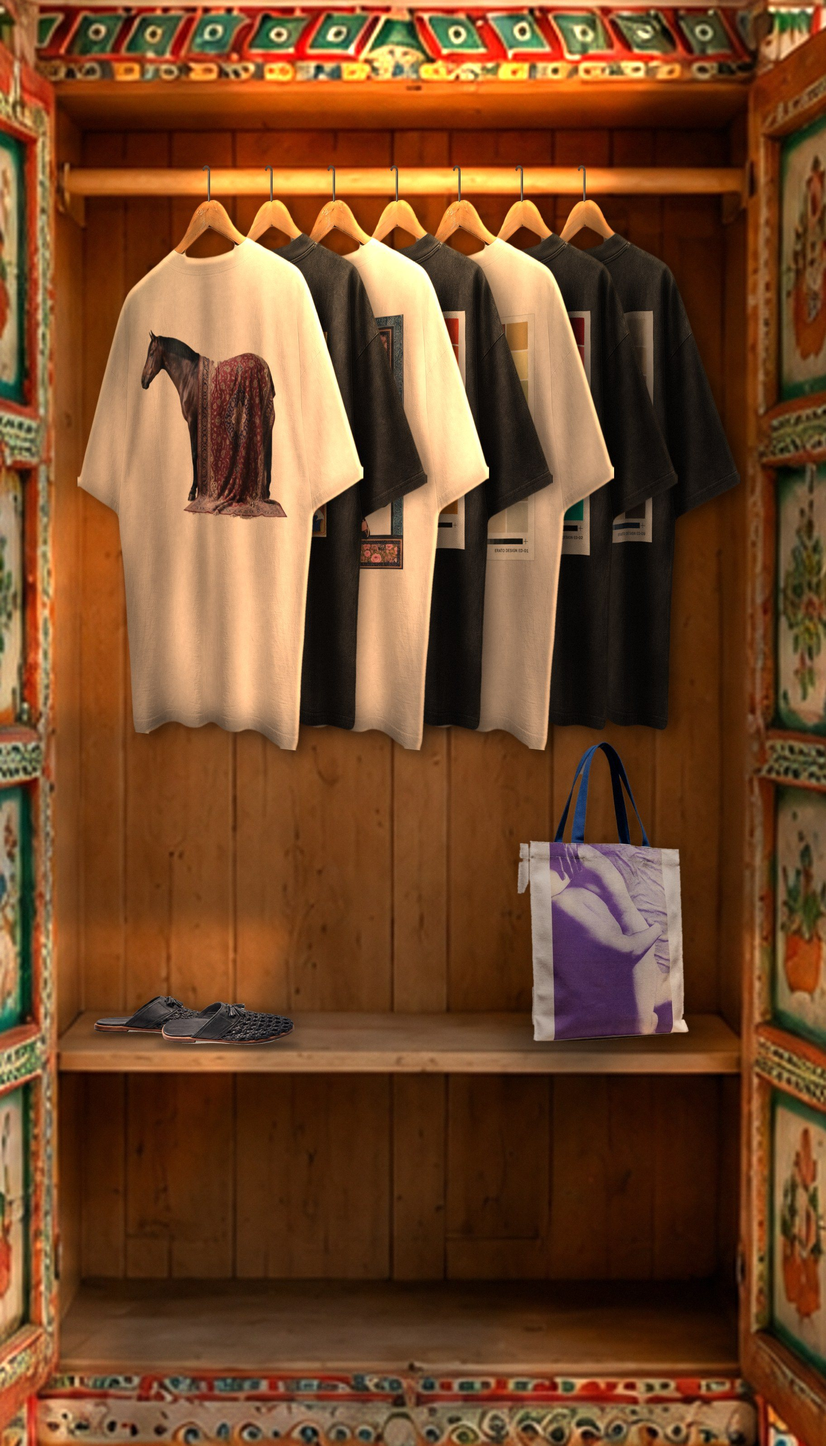
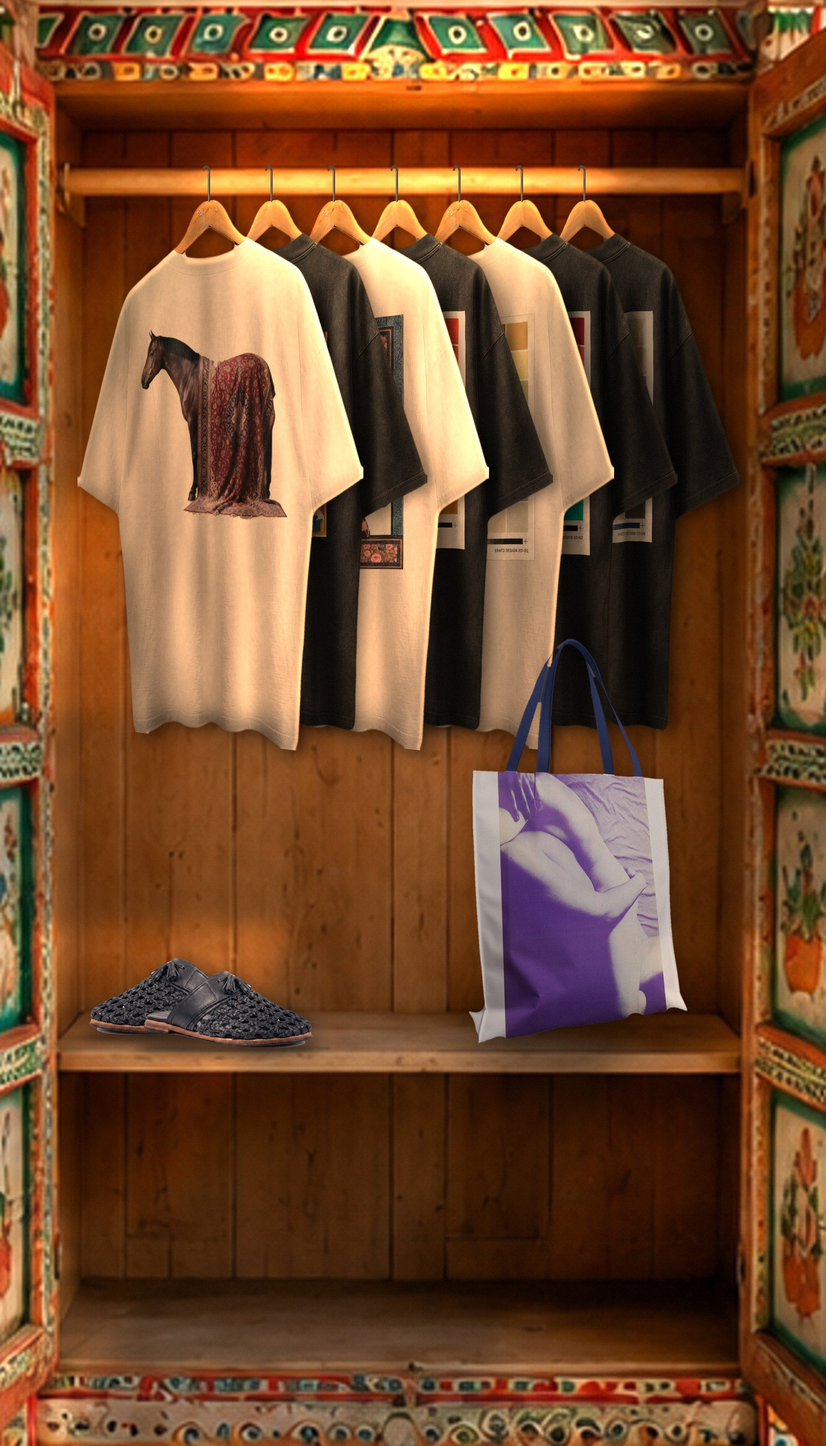
New mule + tote in wardrobe, Loom colour variants (USD 220), tote USD 18 standard size, Riviera framed print
Claude-Session: https://claude.ai/code/session_017Ju3v1Wm9qiCWbJhr3avMd

Changed region(s): [[0.5625, 0.4342, 0.8438, 0.7444], [0.0938, 0.6513, 0.375, 0.7444]]

diff --git a/product-loom.html b/product-loom.html
@@ -4,7 +4,7 @@
 <meta charset="UTF-8">
 <meta name="viewport" content="width=device-width, initial-scale=1.0">
 <title>Loom — ERATO</title>
-<meta name="description" content="Loom — ERATO hand-woven black leather mule.">
+<meta name="description" content="Loom — ERATO hand-woven mule in 100% premium Balinese organic leather, handmade in Bali. Black, dark blue or red brown. USD 220.">
 <link rel="preconnect" href="https://fonts.googleapis.com">
 <link rel="preconnect" href="https://fonts.gstatic.com" crossorigin>
 <link href="https://fonts.googleapis.com/css2?family=Jost:ital,wght@0,300;0,400;0,500;0,600;1,400&display=swap" rel="stylesheet">
@@ -35,21 +35,45 @@
 <a class="back-link" href="accessories.html">&larr; Back to Accessories</a>
 
 <div class="product-detail">
-  <div class="piece-frame"><img src="assets/products/loom-mule.jpg" alt="Loom — ERATO woven leather mule"></div>
+  <div class="gallery">
+    <div class="piece-frame"><img id="mainShot" src="assets/products/loom-black.jpg" alt="Loom — ERATO hand-woven leather mule, black"></div>
+    <div class="thumbs">
+      <button class="thumb active" data-src="assets/products/loom-black.jpg" aria-label="Three-quarter view"><img src="assets/products/loom-black.jpg" alt=""></button>
+      <button class="thumb" data-src="assets/products/loom-black-three.jpg" aria-label="Top, side and inner views"><img src="assets/products/loom-black-three.jpg" alt=""></button>
+    </div>
+  </div>
   <div class="plaque">
     <h1 class="plaque-title">Loom</h1>
-    <p class="plaque-medium">Hand-woven black leather · Leather sole</p>
-    <div class="plaque-sizes"><button class="size-btn">39</button><button class="size-btn">40</button><button class="size-btn active">41</button><button class="size-btn">42</button><button class="size-btn">43</button><button class="size-btn">44</button></div>
-    <p class="plaque-price">USD 89</p>
+    <p class="plaque-medium">100% premium Balinese organic leather · Handmade</p>
+    <p class="plaque-note">A backless mule in hand-knotted leather, finished with a small leather tassel. Made entirely by hand by a local leather artist in Bali.</p>
+    <p class="plaque-label" id="colourLabel">Colour — Black</p>
+    <div class="swatches" data-switch>
+      <button class="swatch-dot active" style="background:#1c1c1e" title="Black" aria-label="Black" data-name="Black" data-k="black"></button>
+      <button class="swatch-dot" style="background:#1f2a44" title="Dark Blue" aria-label="Dark blue" data-name="Dark Blue" data-k="navy"></button>
+      <button class="swatch-dot" style="background:#6b3423" title="Red Brown" aria-label="Red brown" data-name="Red Brown" data-k="redbrown"></button>
+    </div>
+    <p class="plaque-label">Size (EU)</p>
+    <div class="plaque-sizes">
+      <button class="size-btn">38</button><button class="size-btn">39</button><button class="size-btn">40</button><button class="size-btn active">41</button><button class="size-btn">42</button><button class="size-btn">43</button><button class="size-btn">44</button><button class="size-btn">45</button>
+    </div>
+    <p class="plaque-price">USD 220</p>
     <button class="add-to-bag">Add to Bag</button>
+    <dl class="spec-list">
+      <div><dt>Material</dt><dd>100% premium Balinese organic leather, upper, lining and tassel</dd></div>
+      <div><dt>Make</dt><dd>100% handmade by a local leather artist in Bali</dd></div>
+      <div><dt>Upper</dt><dd>Hand-knotted open weave with a smooth leather saddle</dd></div>
+      <div><dt>Sole</dt><dd>Stacked leather sole and low heel</dd></div>
+      <div><dt>Colours</dt><dd>Black, Dark Blue, Red Brown</dd></div>
+      <div><dt>Sizes</dt><dd>EU 38 to 45</dd></div>
+    </dl>
   </div>
 </div>
 
 <div class="product-story">
   <h4>The Story</h4>
-  <p>A backless mule in hand-woven black leather, finished with a small leather tassel. Slips on, sits low, and lives next to the tees in the wardrobe.</p>
-  <h4>The Make</h4>
-  <p>Knotted leather weave upper, soft leather lining, leather sole. Sizes 39 to 44.</p>
+  <p>Loom is woven the slow way: strips of organic leather knotted by hand, one crossing at a time, by a leather artist in Bali. No two pairs are exactly alike, and the leather softens and darkens the more you wear it.</p>
+  <h4>Care</h4>
+  <p>Wipe with a dry cloth, keep away from long soaks, and condition the leather now and then. Natural marks in the hide are part of the piece.</p>
 </div>
 
 <footer class="footer">

diff --git a/product-riviera.html b/product-riviera.html
@@ -3,8 +3,8 @@
 <head>
 <meta charset="UTF-8">
 <meta name="viewport" content="width=device-width, initial-scale=1.0">
-<title>Marble Study — ERATO</title>
-<meta name="description" content="Marble Study — ERATO 100% cotton tote bag, standard 38 × 42 cm. USD 18.">
+<title>Riviera — Framed Print — ERATO</title>
+<meta name="description" content="Riviera — ERATO framed art print in a minimal natural wood frame. A4, A3, A2.">
 <link rel="preconnect" href="https://fonts.googleapis.com">
 <link rel="preconnect" href="https://fonts.gstatic.com" crossorigin>
 <link href="https://fonts.googleapis.com/css2?family=Jost:ital,wght@0,300;0,400;0,500;0,600;1,400&display=swap" rel="stylesheet">
@@ -32,32 +32,40 @@
   <a href="about.html">About</a>
 </div>
 
-<a class="back-link" href="accessories.html">&larr; Back to Accessories</a>
+<a class="back-link" href="prints.html">&larr; Back to Prints</a>
 
 <div class="product-detail">
   <div class="gallery">
-    <div class="piece-frame"><img id="mainShot" src="assets/products/marble-study-tote2.jpg" alt="Marble Study — ERATO cotton tote"></div>
+    <div class="piece-frame"><img id="mainShot" src="assets/products/riviera-framed.jpg" alt="Riviera — ERATO framed print in a natural wood frame"></div>
     <div class="thumbs">
-      <button class="thumb active" data-src="assets/products/marble-study-tote2.jpg" aria-label="Studio view"><img src="assets/products/marble-study-tote2.jpg" alt=""></button>
-      <button class="thumb" data-src="assets/products/marble-study-tote.jpg" aria-label="Gallery view"><img src="assets/products/marble-study-tote.jpg" alt=""></button>
+      <button class="thumb active" data-src="assets/products/riviera-framed.jpg" aria-label="Framed print"><img src="assets/products/riviera-framed.jpg" alt=""></button>
+      <button class="thumb" data-src="assets/products/riviera-detail.jpg" aria-label="Frame detail"><img src="assets/products/riviera-detail.jpg" alt=""></button>
     </div>
   </div>
   <div class="plaque">
-    <h1 class="plaque-title">Marble Study</h1>
-    <p class="plaque-medium">100% cotton canvas · 38 × 42 cm</p>
+    <h1 class="plaque-title">Riviera</h1>
+    <p class="plaque-medium">Framed art print · Natural wood frame, white mount</p>
+    <p class="plaque-note">A 1950s pin-up in a striped swimsuit against pure red, lifted from an old calendar page and framed simply, the way it deserves.</p>
+    <p class="plaque-label">Size</p>
     <div class="plaque-sizes">
-      <button class="size-btn active">Standard · 38 × 42 cm</button>
+      <button class="size-btn" data-price="59">A4</button>
+      <button class="size-btn active" data-price="79">A3</button>
+      <button class="size-btn" data-price="119">A2</button>
     </div>
-    <p class="plaque-price">USD 18</p>
+    <p class="plaque-price">USD 79</p>
     <button class="add-to-bag">Add to Bag</button>
+    <dl class="spec-list">
+      <div><dt>Frame</dt><dd>Minimal natural wood frame, thin profile</dd></div>
+      <div><dt>Mount</dt><dd>White mount around the image</dd></div>
+      <div><dt>Print</dt><dd>Archival art print</dd></div>
+      <div><dt>Sizes</dt><dd>A4, A3, A2 (frame included)</dd></div>
+    </dl>
   </div>
 </div>
 
 <div class="product-story">
   <h4>The Story</h4>
-  <p>A cropped photographic study of carved stone, printed in violet across raw canvas. Structured base, navy webbing straps, holds its shape whether it's carrying anything or not.</p>
-  <h4>Details</h4>
-  <p>100% cotton canvas. Standard tote size: 38 cm wide × 42 cm tall, with 60 cm navy cotton handles that sit comfortably on the shoulder. Printed on both sides of the front panel area shown.</p>
+  <p>Pure red, red-and-white stripes, a headscarf caught mid-wind. The original was a calendar page with the spiral holes still in it; we cleaned it up, kept the colour exactly as printed, and gave it a quiet wooden frame so the picture does all the talking.</p>
 </div>
 
 <footer class="footer">

diff --git a/index.html b/index.html
@@ -80,7 +80,7 @@
     </div>
   </div>
 </section>
-<script>window.WR_META={"horse": {"i": 0, "x": 0.09375, "y": 0.13815789473684212, "w": 0.34649122807017546, "h": 0.38095238095238093}, "mughal": {"i": 1, "x": 0.17050438596491227, "y": 0.13815789473684212, "w": 0.3470394736842105, "h": 0.3668546365914787}, "roses": {"i": 2, "x": 0.2450657894736842, "y": 0.13815789473684212, "w": 0.3470394736842105, "h": 0.3806390977443609}, "budapest": {"i": 3, "x": 0.3223684210526316, "y": 0.13815789473684212, "w": 0.3470394736842105, "h": 0.36654135338345867}, "nighthawks": {"i": 4, "x": 0.3969298245614035, "y": 0.13815789473684212, "w": 0.34649122807017546, "h": 0.3806390977443609}, "vertigo": {"i": 5, "x": 0.47368421052631576, "y": 0.13815789473684212, "w": 0.3470394736842105, "h": 0.3668546365914787}, "wave": {"i": 6, "x": 0.5493421052631579, "y": 0.13815789473684212, "w": 0.3470394736842105, "h": 0.3668546365914787}, "shoes": {"i": 7, "x": 0.11403508771929824, "y": 0.6885964912280702, "w": 0.24232456140350878, "h": 0.03383458646616541}, "tote": {"i": 8, "x": 0.6266447368421053, "y": 0.5131578947368421, "w": 0.20668859649122806, "h": 0.20676691729323307}};</script>
+<script>window.WR_META={"horse": {"i": 0, "x": 0.09375, "y": 0.13815789473684212, "w": 0.34649122807017546, "h": 0.38095238095238093}, "mughal": {"i": 1, "x": 0.17050438596491227, "y": 0.13815789473684212, "w": 0.3470394736842105, "h": 0.3668546365914787}, "roses": {"i": 2, "x": 0.2450657894736842, "y": 0.13815789473684212, "w": 0.3470394736842105, "h": 0.3806390977443609}, "budapest": {"i": 3, "x": 0.3223684210526316, "y": 0.13815789473684212, "w": 0.3470394736842105, "h": 0.36654135338345867}, "nighthawks": {"i": 4, "x": 0.3969298245614035, "y": 0.13815789473684212, "w": 0.34649122807017546, "h": 0.3806390977443609}, "vertigo": {"i": 5, "x": 0.47368421052631576, "y": 0.13815789473684212, "w": 0.3470394736842105, "h": 0.3668546365914787}, "wave": {"i": 6, "x": 0.5493421052631579, "y": 0.13815789473684212, "w": 0.3470394736842105, "h": 0.3668546365914787}, "shoes": {"i": 7, "x": 0.10800438596491228, "y": 0.6622807017543859, "w": 0.2708333333333333, "h": 0.06234335839598997}, "tote": {"i": 8, "x": 0.5679824561403509, "y": 0.4417293233082707, "w": 0.2637061403508772, "h": 0.2794486215538847}};</script>
 
 <section class="intro" id="concept">
   <p class="section-eyebrow reveal">About ERATO</p>

diff --git a/js/main.js b/js/main.js
@@ -33,7 +33,7 @@ const observer = new IntersectionObserver((entries) => {
 revealEls.forEach(el => observer.observe(el));
 
 // Product piece — size / print-size selectors
-document.querySelectorAll('.piece, .piece-solo').forEach(piece => {
+document.querySelectorAll('.piece, .piece-solo, .product-detail').forEach(piece => {
   const buttons = piece.querySelectorAll('.size-btn');
   const priceEl = piece.querySelector('.plaque-price');
   buttons.forEach(btn => {
@@ -87,3 +87,20 @@ document.querySelectorAll('.thumbs').forEach(group => {
   next.addEventListener('click',function(){rail.scrollBy({left:step(),behavior:'smooth'});});
   rail.addEventListener('scroll',upd,{passive:true});window.addEventListener('resize',upd);upd();
 })();
+
+/* colour swatches that switch product images (data-k → assets/products/<slug>-<k>.jpg) */
+document.querySelectorAll('.swatches[data-switch]').forEach(group => {
+  const main = document.getElementById('mainShot'); if (!main) return;
+  const base = main.getAttribute('src').replace(/-(black|navy|redbrown)\.jpg$/, '');
+  const label = document.getElementById('colourLabel');
+  group.querySelectorAll('.swatch-dot').forEach(d => d.addEventListener('click', () => {
+    group.querySelectorAll('.swatch-dot').forEach(x => x.classList.remove('active')); d.classList.add('active');
+    const k = d.dataset.k, one = base + '-' + k + '.jpg', three = base + '-' + k + '-three.jpg';
+    const th = document.querySelectorAll('.thumbs .thumb');
+    if (th[0]) { th[0].dataset.src = one; th[0].querySelector('img').src = one; }
+    if (th[1]) { th[1].dataset.src = three; th[1].querySelector('img').src = three; }
+    th.forEach((x, i) => x.classList.toggle('active', i === 0));
+    main.src = one; main.alt = 'Loom mule, ' + d.dataset.name.toLowerCase();
+    if (label) label.textContent = 'Colour — ' + d.dataset.name;
+  }));
+});

diff --git a/accessories.html b/accessories.html
@@ -41,10 +41,10 @@
 <div class="pieces-grid">
 
   <a class="piece" href="product-loom.html">
-    <div class="piece-frame"><img src="assets/products/loom-mule.jpg" alt="Loom — ERATO woven leather mule"></div>
+    <div class="piece-frame"><img src="assets/products/loom-black.jpg" alt="Loom — ERATO woven leather mule"></div>
     <div class="plaque-preview">
       <h3>Loom</h3>
-      <span class="price">USD 89</span>
+      <span class="price">USD 220</span>
     </div>
     <p class="view-hint">View Piece</p>
   </a>
@@ -53,7 +53,7 @@
     <div class="piece-frame"><img src="assets/products/marble-study-tote.jpg" alt="Marble Study — ERATO tote"></div>
     <div class="plaque-preview">
       <h3>Marble Study</h3>
-      <span class="price">USD 24</span>
+      <span class="price">USD 18</span>
     </div>
     <p class="view-hint">View Piece</p>
   </a>
@@ -62,7 +62,7 @@
     <div class="piece-frame"><img src="assets/products/scheherazade-tote.jpg" alt="Schéhérazade — ERATO tote"></div>
     <div class="plaque-preview">
       <h3>Schéhérazade</h3>
-      <span class="price">USD 24</span>
+      <span class="price">USD 18</span>
     </div>
     <p class="view-hint">View Piece</p>
   </a>

diff --git a/js/wardrobe.js b/js/wardrobe.js
@@ -17,8 +17,8 @@
     { k:'wave',       slug:'kanagawa',      name:'Kanagawa',        col:'Washed Charcoal', tone:'light' }
   ].map(t => Object.assign(t, { group:'tees', meta: t.col + ' \u00b7 USD 44', ar: 0.711, alt: t.name + ' t-shirt, back' }));
   const ITEMS = TEES.concat([
-    { k:'shoes', slug:'loom',         name:'Loom',         col:'Mule', tone:'light', group:'shelf', meta:'Woven leather mule \u00b7 USD 89', ar:1.32, alt:'Loom woven leather mules' },
-    { k:'tote',  slug:'marble-study', name:'Marble Study', col:'Tote', tone:'dark',  group:'shelf', meta:'Canvas tote \u00b7 USD 24', ar:0.64, alt:'Marble Study tote bag' }
+    { k:'shoes', slug:'loom',         name:'Loom',         col:'Mule', tone:'light', group:'shelf', meta:'Handmade Balinese leather \u00b7 USD 220', ar:1.32, alt:'Loom woven leather mules' },
+    { k:'tote',  slug:'marble-study', name:'Marble Study', col:'Tote', tone:'dark',  group:'shelf', meta:'100% cotton tote \u00b7 USD 18', ar:0.543, alt:'Marble Study tote bag' }
   ]);
   const href = t => 'product-' + t.slug + '.html';
   const RACK = { x: 0.38542, y: 0.17593, w: 0.19792, h: 0.61574 };

diff --git a/prints.html b/prints.html
@@ -40,6 +40,15 @@
 
 <div class="pieces-grid">
 
+  <a class="piece" href="product-riviera.html">
+    <div class="piece-frame"><img src="assets/products/riviera-framed.jpg" alt="Riviera — ERATO framed print"></div>
+    <div class="plaque-preview">
+      <h3>Riviera</h3>
+      <span class="price">Framed · from USD 59</span>
+    </div>
+    <p class="view-hint">View Piece</p>
+  </a>
+
   <article class="piece">
     <div class="piece-frame"><img src="assets/products/the-court.jpg" alt="The Court — ERATO print"></div>
     <div class="plaque">

diff --git a/css/styles.css b/css/styles.css
@@ -685,3 +685,4 @@ body{background:var(--paper);color:var(--wood);}
 .rail-wrap .rail-btn.prev{left:20px;} .rail-wrap .rail-btn.next{right:20px;}
 .rail-wrap .rail-btn:disabled{opacity:0;pointer-events:none;}
 @media (max-width:900px){.rail-wrap .rail-btn{display:flex;width:44px;height:44px;font-size:18px;align-items:center;justify-content:center;top:calc(50% - 40px);}.rail-wrap .rail-btn.prev{left:8px}.rail-wrap .rail-btn.next{right:8px}}
+button.swatch-dot{cursor:pointer;padding:0;}

diff --git a/product-scheherazade.html b/product-scheherazade.html
@@ -42,7 +42,7 @@
     <div class="plaque-sizes">
       <button class="size-btn active">One Size</button>
     </div>
-    <p class="plaque-price">USD 24</p>
+    <p class="plaque-price">USD 18</p>
     <button class="add-to-bag">Add to Bag</button>
   </div>
 </div>

diff --git a/CLAUDE.md b/CLAUDE.md
@@ -10,7 +10,7 @@ Owner: Ali (Layer Nine / ERATO). Currency: USD. Tees USD 44, totes USD 24, print
 - Local preview: `python3 -m http.server 8767` from repo root (wardrobe hover needs http, not file://).
 
 ## Hero (index.html + js/wardrobe.js)
-Flow now: closed → click → doors open (NO zoom) → click an item (tee/tote/shoes) zooms to its group (tees / shelf / floor) → click item = pull-out dialog. Items: 7 tees, shoes (Loom, USD 89 placeholder) and tote (Marble Study) both on the shelf, real scale (~4.3 native px per cm). label.png values = (index+1)*25; ITEMS order must match: tees 0-6, shoes 7, tote 8. Rack overlay covers world y .17593–.7917 (h .61574).
+Flow now: closed → click → doors open (NO zoom) → click an item (tee/tote/shoes) zooms to its group (tees / shelf / floor) → click item = pull-out dialog. Items: 7 tees, shoes (Loom, USD 220, Balinese leather, black/navy/redbrown variants in assets/products/loom-*.jpg) and tote (Marble Study, USD 18, 38x42cm cotton) both on the shelf, real scale (~4.3 native px per cm). label.png values = (index+1)*25; ITEMS order must match: tees 0-6, shoes 7, tote 8. Rack overlay covers world y .17593–.7917 (h .61574).
 Closed 16:9 room photo → hover "open me" → doors part → rack of 7 tees → zoom → hover/click pulls tee out ("Buy me" / "Know me better") → product page.
 Assets in assets/hero/: closed.jpg, open.jpg (2560x1440), rack.jpg, label.png (hover lookup, value = (index+1)*30), layer-<key>.webp, pull-<key>.webp, meta.json.
 Constants in wardrobe.js: ASPECT 16/9, RACK {x:.38542,y:.17593,w:.19792,h:.46296}, TEES array (key, slug, name, colour, tone).
@@ -27,3 +27,4 @@ Pages: product-<slug>.html. Images: assets/tees/<key>-back.jpg, <key>-detail.jpg
 4. Checkout: "Add to Bag" is decorative; connect Stripe Payment Links (ask Ali).
 5. Collections page: retire or group the 9 older pieces as "Archive".
 6. Mobile QA, delete duplicate folder "erato-website 2".
+Prints: product-riviera.html (framed, frame.py renders assets/products/riviera-*.jpg).
